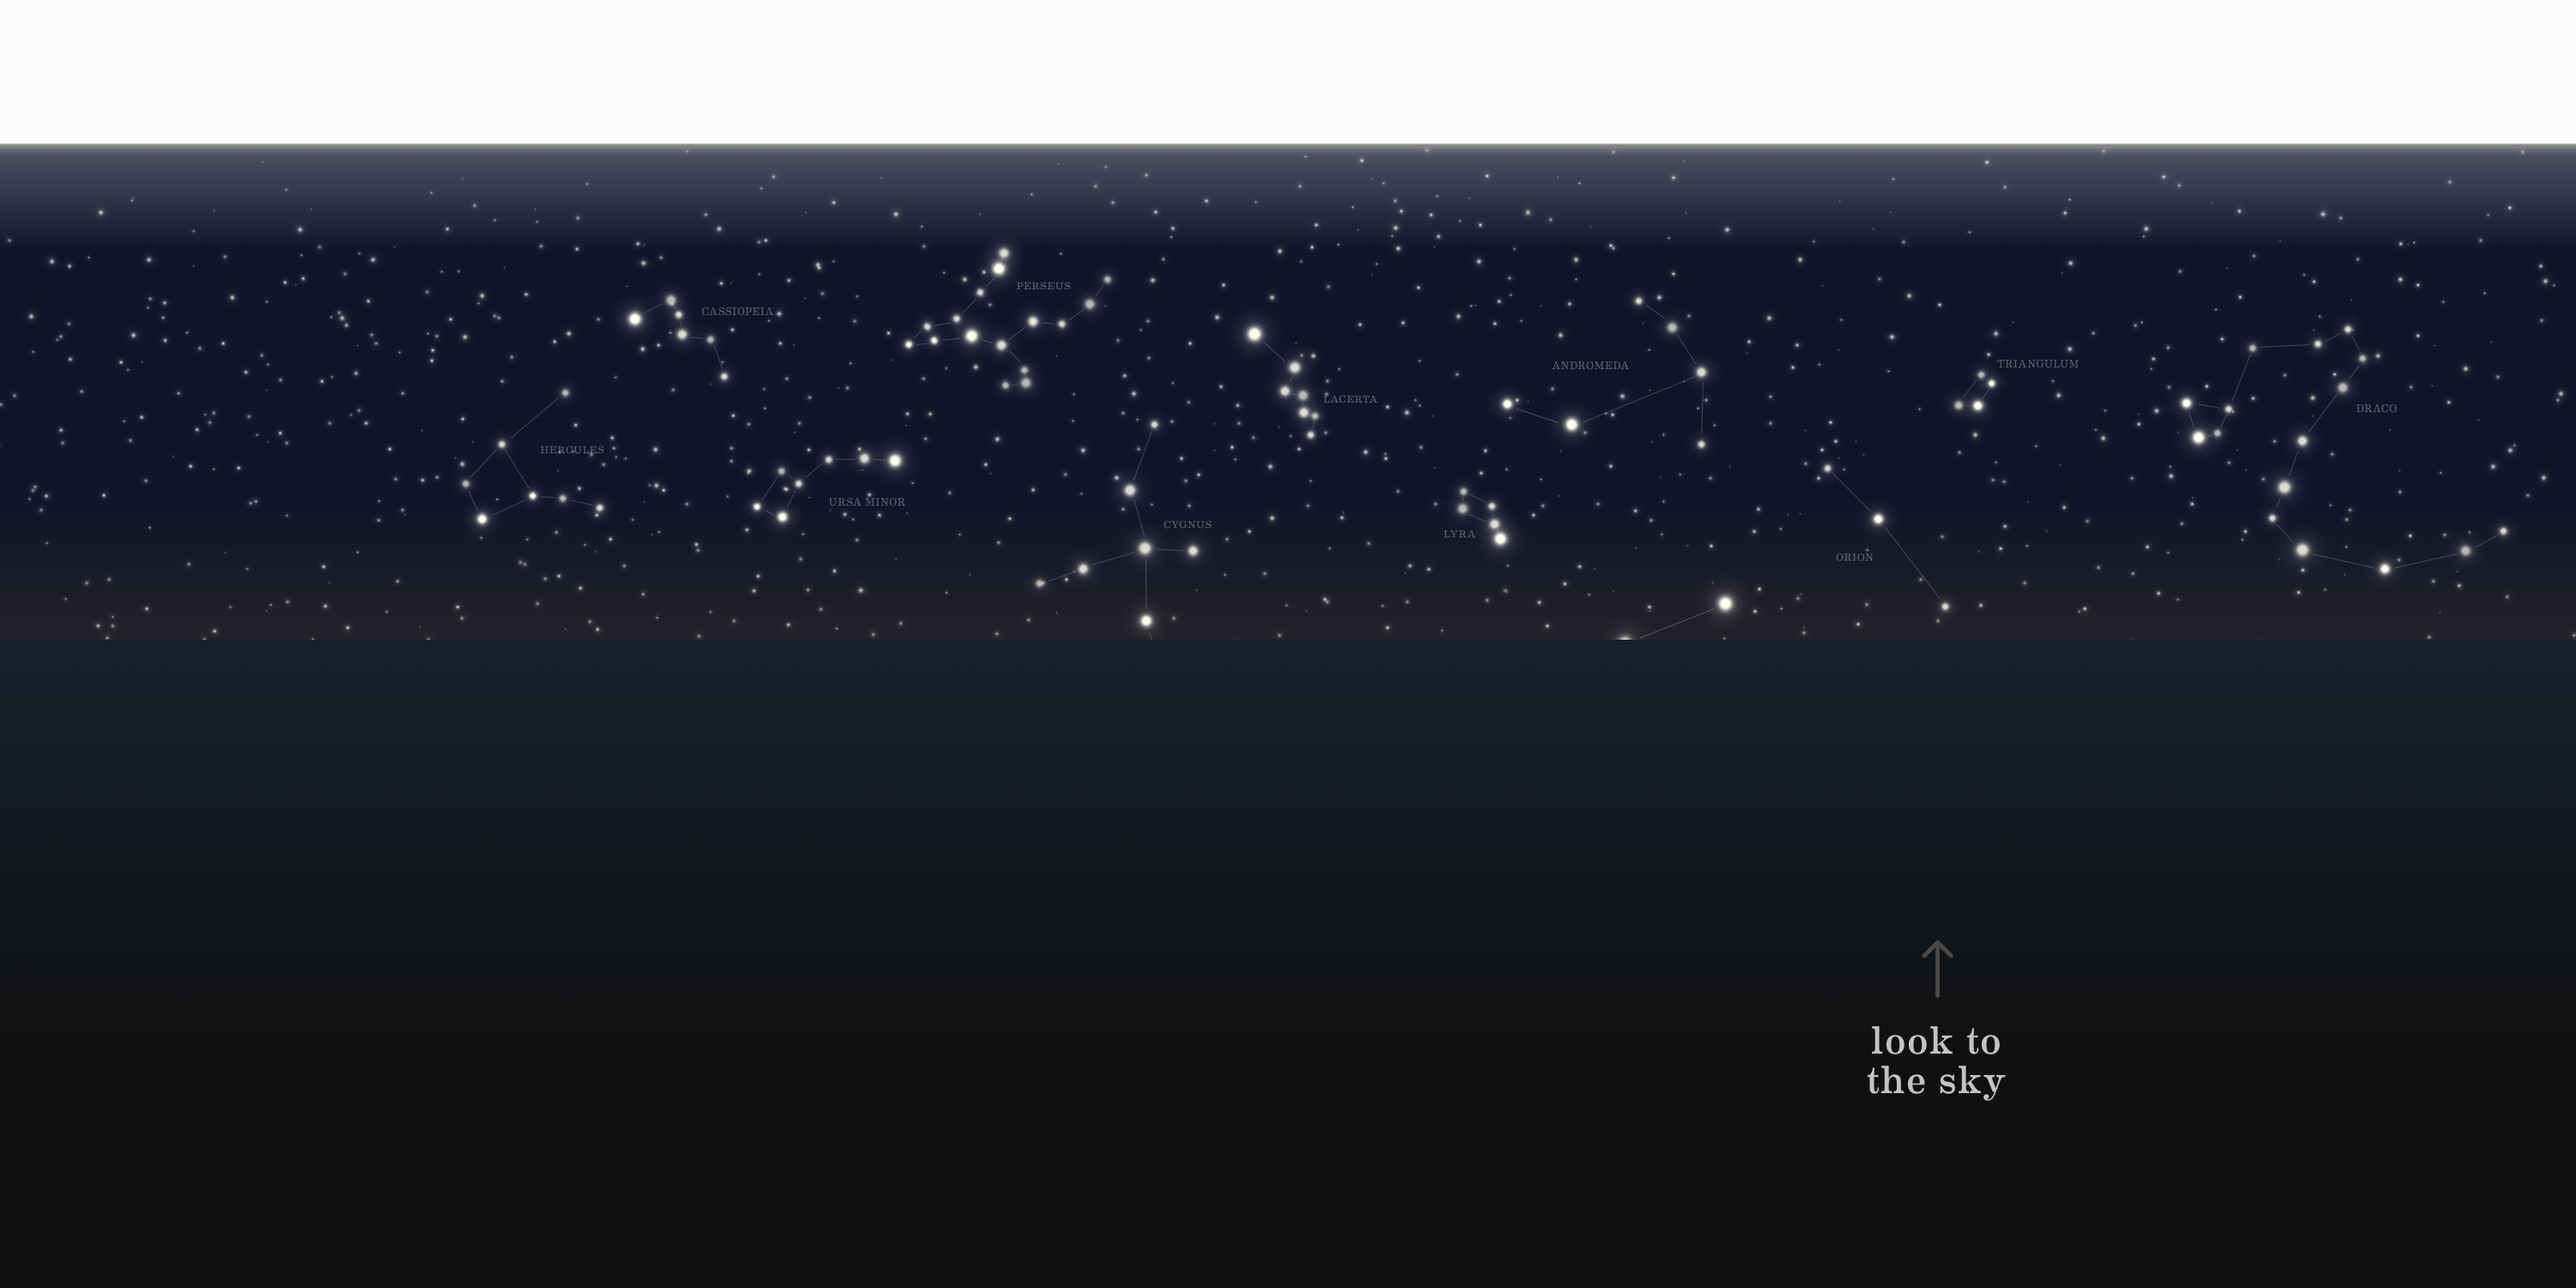
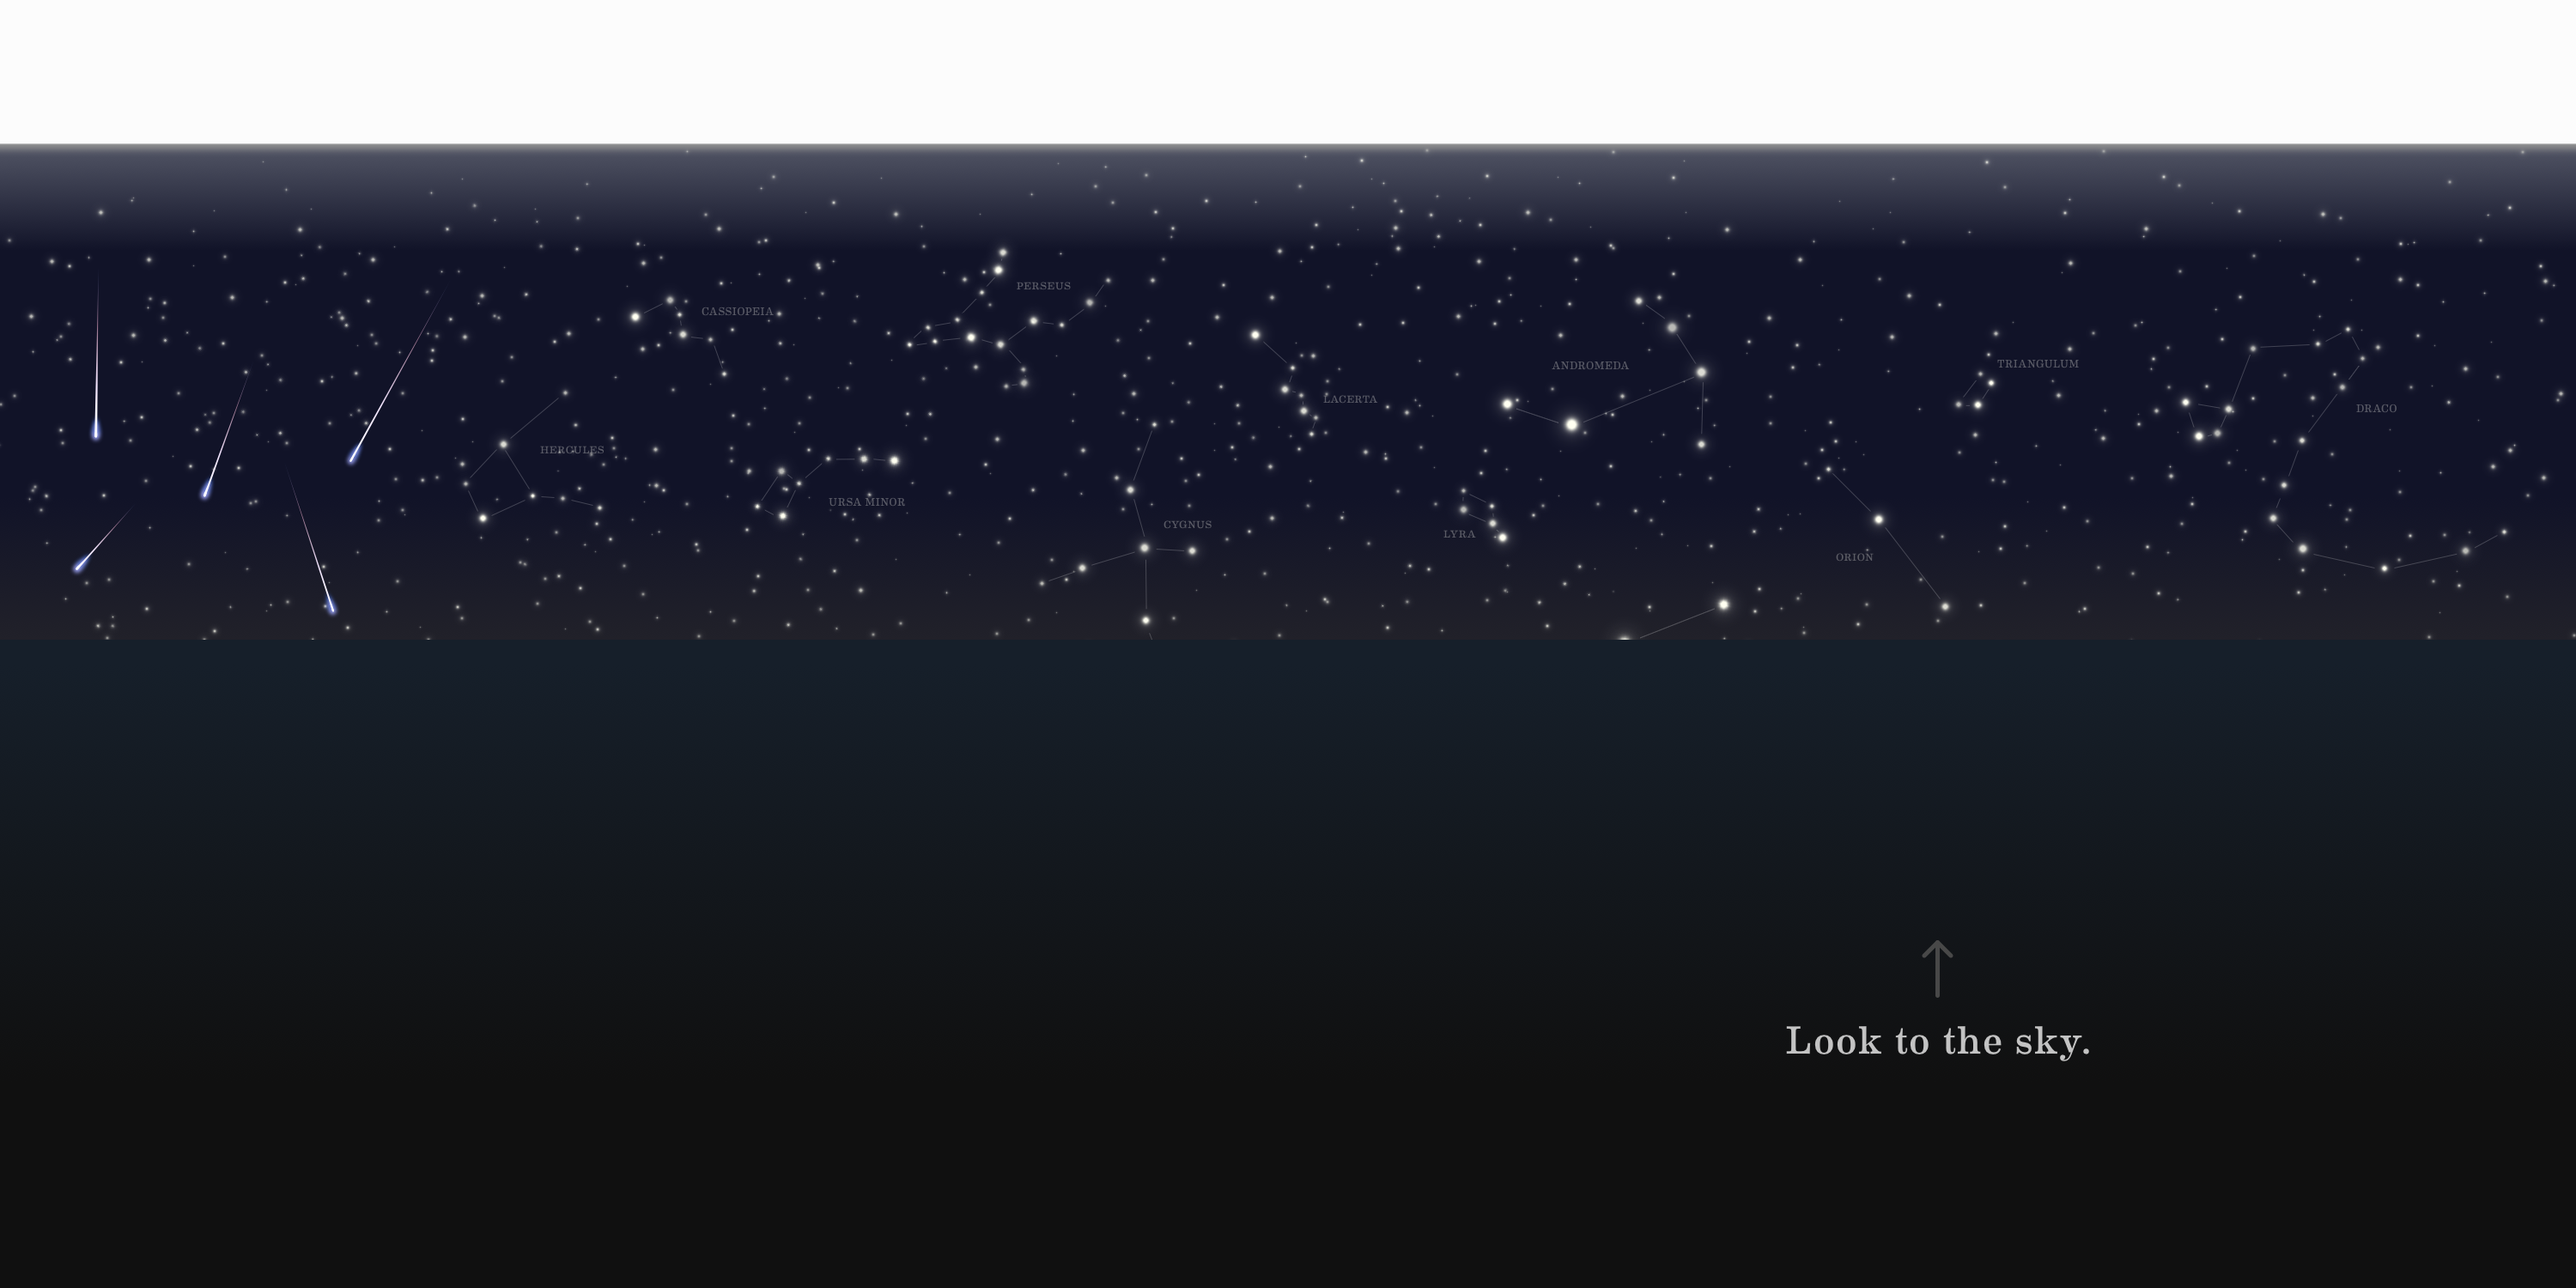
Constellations and three Beach images updated

diff --git a/1-beach-A.html b/1-beach-A.html
@@ -1,0 +1,22 @@
+<!DOCTYPE html>
+<html lang="en">
+<head>
+<meta charset="utf-8">
+<title>The Beach</title>
+<meta name="viewport" content="width=device-width, initial-scale=1.0">
+<script src="https://aframe.io/releases/0.2.0/aframe.min.js"></script> 
+</head>
+<body>
+<a-scene>
+<a-curvedimage src="img/ui.png" radius="4" theta-length="360" height="12" scale=".3 .3 .3"></a-curvedimage>
+<a-sky src="img/background-1-beach-A.png"><a-root><a-entity geometry="primitive: sphere" material="shader: flat; src: url(img/background-1-beach-A.png);" scale="1 1 1"></a-entity></a-root></a-sky>
+<a-entity camera look-controls>
+<a-entity cursor="fuse: true;" position="0 0 -1" scale=".01 .01 .01" geometry="primitive: ring" material="color: #fff; shader: flat">
+</a-entity>
+<!-- Object position fixed
+<a-entity geometry="primitive: plane; height: 1; width: 1" material="shader: flat;transparent:true;side: double;src: url(img/#.png);" position="-0.4 -0.4 -0.8"></a-entity> -->
+
+</a-entity>
+</a-scene>
+</body>
+</html>

diff --git a/1-beach-B.html b/1-beach-B.html
@@ -1,0 +1,22 @@
+<!DOCTYPE html>
+<html lang="en">
+<head>
+<meta charset="utf-8">
+<title>The Beach</title>
+<meta name="viewport" content="width=device-width, initial-scale=1.0">
+<script src="https://aframe.io/releases/0.2.0/aframe.min.js"></script> 
+</head>
+<body>
+<a-scene>
+<a-curvedimage src="img/ui.png" radius="4" theta-length="360" height="12" scale=".3 .3 .3"></a-curvedimage>
+<a-sky src="img/background-1-beach-B.png"><a-root><a-entity geometry="primitive: sphere" material="shader: flat; src: url(img/background-1-beach-B.png);" scale="1 1 1"></a-entity></a-root></a-sky>
+<a-entity camera look-controls>
+<a-entity cursor="fuse: true;" position="0 0 -1" scale=".01 .01 .01" geometry="primitive: ring" material="color: #fff; shader: flat">
+</a-entity>
+<!-- Object position fixed
+<a-entity geometry="primitive: plane; height: 1; width: 1" material="shader: flat;transparent:true;side: double;src: url(img/#.png);" position="-0.4 -0.4 -0.8"></a-entity> -->
+
+</a-entity>
+</a-scene>
+</body>
+</html>

diff --git a/1-beach-C.html b/1-beach-C.html
@@ -1,0 +1,22 @@
+<!DOCTYPE html>
+<html lang="en">
+<head>
+<meta charset="utf-8">
+<title>The Beach</title>
+<meta name="viewport" content="width=device-width, initial-scale=1.0">
+<script src="https://aframe.io/releases/0.2.0/aframe.min.js"></script> 
+</head>
+<body>
+<a-scene>
+<a-curvedimage src="img/ui.png" radius="4" theta-length="360" height="12" scale=".3 .3 .3"></a-curvedimage>
+<a-sky src="img/background-1-beach-C.png"><a-root><a-entity geometry="primitive: sphere" material="shader: flat; src: url(img/background-1-beach-C.png);" scale="1 1 1"></a-entity></a-root></a-sky>
+<a-entity camera look-controls>
+<a-entity cursor="fuse: true;" position="0 0 -1" scale=".01 .01 .01" geometry="primitive: ring" material="color: #fff; shader: flat">
+</a-entity>
+<!-- Object position fixed
+<a-entity geometry="primitive: plane; height: 1; width: 1" material="shader: flat;transparent:true;side: double;src: url(img/#.png);" position="-0.4 -0.4 -0.8"></a-entity> -->
+
+</a-entity>
+</a-scene>
+</body>
+</html>
